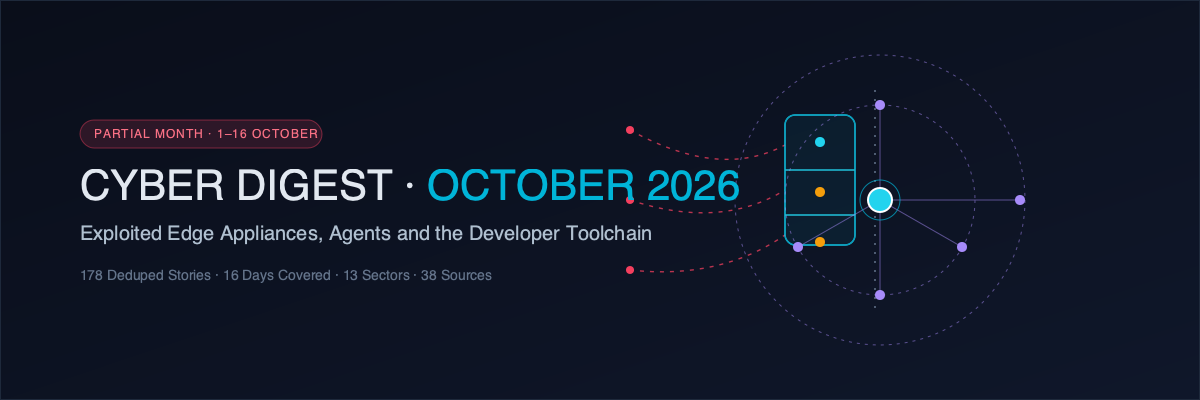
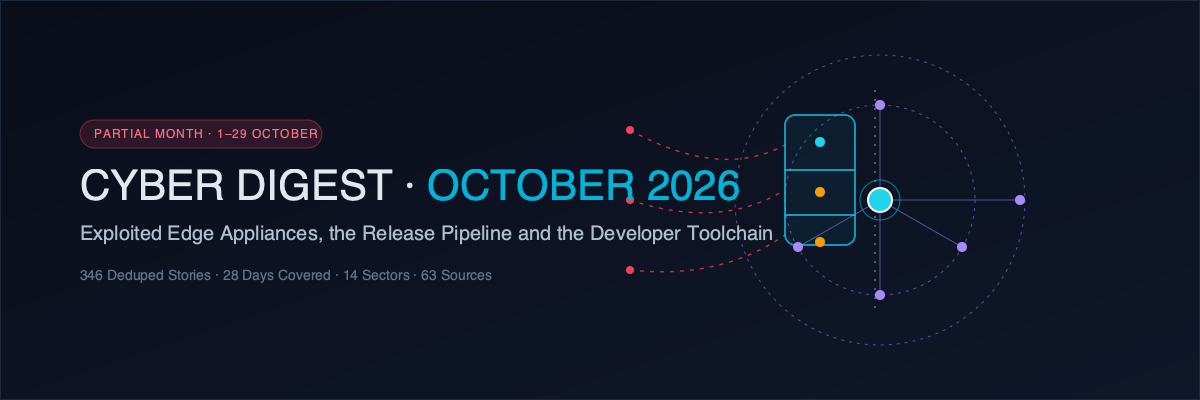
Auto-deploy 2026-10-30 07:58

Changed region(s): [[0.2775, 0.54, 0.6475, 0.6], [0.0617, 0.66, 0.0925, 0.72], [0.185, 0.33, 0.2158, 0.36]]

diff --git a/docs/monthly/2026-10.html b/docs/monthly/2026-10.html
@@ -1056,11 +1056,11 @@ a.cvepill{cursor:pointer}
 <section id="sector-geopolitical-state-sponsored" class="section"><h2><span class="icon"><svg viewBox="0 0 24 24" fill="none" stroke="currentColor" stroke-width="1.7" stroke-linecap="round" stroke-linejoin="round"><circle cx="12" cy="12" r="9"/><path d="M3 12h18M12 3c2.7 2.6 4 5.6 4 9s-1.3 6.4-4 9c-2.7-2.6-4-5.6-4-9s1.3-6.4 4-9z"/></svg></span> Geopolitical &amp; State-Sponsored <span class="count">1 story</span></h2><div class="story-grid"><div class="story-card num-1" id="story-53"><div class="card-accent"></div><div class="story-number">1</div><h3>OpenAI disrupts Russian and Iranian AI-built &quot;false front&quot; influence operations that planted stories in mainstream media</h3><p class="summary">OpenAI disclosed on 8 October that it shut down two influence operations — one Russian, one Iranian — that used <strong>ChatGPT</strong> and other AI tools to manufacture fake journalist personas and covert think tanks and succeeded in planting narratives in mainstream outlets. The Russian cluster, tracked as <strong>&quot;Dark Clark&quot;</strong>, ran a fictitious Latin American think tank, the Social Research Center, fronted by an AI-generated persona named Mia Clark; its content targeted Ukraine&#x27;s reputation in Latin America and engaged Argentine and Bolivian politics, and internal ChatGPT records discussing wage scales and hiring suggest the operators controlled the organisation outright. OpenAI called it &quot;the most complex attempt to run a front identity that we&#x27;ve disrupted over the past two and a half years&quot;.</p><div class="meta"><a class="source" href="https://cyberscoop.com/openai-disrupts-russia-iran-ai-influence-operations/" target="_blank" rel="noopener">CyberScoop — coverage of OpenAI&#x27;s threat-intelligence disclosure</a><span class="reliability"><span class="tier-2">●</span> Tier 2/4 — Established security press, verified disclosure</span><span class="date">2026-10-08</span></div></div>
 </div>
 </section>
-<section id="by-numbers" class="section section-box"><h2><span class="icon">📊</span> By the Numbers</h2><p><strong>Scope:</strong> this edition covers <strong>1–29 October 2026</strong> — 28 digest days across the month&#x27;s 31 calendar days. The series did not run on <strong>18 October</strong>, and <strong>30–31 October</strong> fall after this close, so this remains a <strong>partial-month edition</strong>: a final fold over the closing days will supersede every figure below.</p>
-<ul><li><strong>Total stories (deduplicated):</strong> <strong>346</strong></li><li><strong>Digest days covered:</strong> 28 (1, 2, 3, 4, 5, 6, 7, 8, 9, 10, 11, 12, 13, 14, 15, 16, 17, 19, 20, 21, 22, 23, 24, 25, 26, 27, 28 and 29 October). The series did not run on <strong>18 October</strong>; <strong>30 and 31 October</strong> fall after this close. The arithmetic is additive — 347 ingested rows collapse to <strong>346</strong> deduplicated groups: the <strong>178</strong> groups through 16 October plus <strong>168 net-new</strong> groups from 17–29 October, every one of which first appeared inside the fold window. One group (a US bank penalty carried on both 10 and 12 October) appears on two digest days.</li><li><strong>Stories per sector (all 14):</strong> IT / Technology <strong>81</strong> · Government &amp; Policy <strong>59</strong> · Financial Services <strong>37</strong> · Healthcare <strong>31</strong> · Defence <strong>24</strong> · Retail &amp; Entertainment &amp; Sport <strong>21</strong> · Legal Services <strong>20</strong> · Transport <strong>17</strong> · AI &amp; Frontier Technology <strong>17</strong> · Energy &amp; Utilities <strong>12</strong> · Education <strong>12</strong> · Cybercrime &amp; Ransomware <strong>11</strong> · Construction &amp; Property <strong>3</strong> · Geopolitical &amp; State-Sponsored <strong>1</strong>. The sector counts sum to the 346 total.</li><li><strong>Threat type distribution:</strong> Zero-day / Vulnerability <strong>97</strong> · Breach / Data Leak <strong>76</strong> · Malware <strong>56</strong> · Ransomware <strong>51</strong> · Phishing / BEC <strong>15</strong> · OT / ICS <strong>13</strong> · AI Security <strong>13</strong> · APT / Nation-State <strong>12</strong> · Regulatory / Policy <strong>6</strong> · Supply Chain <strong>4</strong> · Other <strong>3</strong>. The distribution sums to the 346 total.</li><li><strong>Severity mix (threat rating):</strong> Critical <strong>110</strong> · Severe <strong>88</strong> · Guarded <strong>77</strong> · Elevated <strong>71</strong>. The critical band is <strong>31.8%</strong> of the window.</li><li><strong>Geographic distribution (primary location as classified):</strong> United States <strong>176</strong> · Australia <strong>73</strong> · Global <strong>68</strong> · Europe <strong>16</strong> · APAC <strong>13</strong>. The Australia figure is unusually high for this series — <strong>73</strong> stories, against 40 at the sixteen-day close and 11 in the equivalent September window — because a large share of the month&#x27;s highest-profile items are Australian <strong>government and regulator actions</strong> (the ACSC&#x27;s NetScaler alert updates, its OT-and-edge-devices alert and its steep rise in published advisories, the OAIC&#x27;s HeyCyan investigation and the OVIC report) rather than Australian incidents. The Australia bucket covers New Zealand as well, and the field is written by the <strong>pipeline&#x27;s classifier rather than an analyst</strong> — a handful of fold rows are tagged Australia where the story&#x27;s own text records no Australian incident, so read the count as a coverage indicator rather than an audited geography figure.</li><li><strong>ANZ relevance distribution (0–5):</strong> 5 — Direct AU/NZ impact <strong>18</strong> · 4 — AU/NZ regulation and policy <strong>6</strong> · 3 — Five Eyes / allied <strong>83</strong> · 2 — APAC strategic <strong>50</strong> · 1 — APAC tangential <strong>0</strong> · 0 — No ANZ relevance <strong>189</strong>. The distribution sums to the 346 total. <strong>Six items were re-scored down at the sixteen-day close</strong> where the story&#x27;s own text records no direct Australian or New Zealand impact (a South Korean presidential investigation and a Central Asian phishing campaign to level 2; two Citrix appliance advisories, Microsoft&#x27;s Patch Tuesday and the PAN-OS advisory from 5 to 3; a US bank penalty to 0), and <strong>the field is the pipeline&#x27;s keyword rule, not an analyst assessment</strong> — <code>anz_relevance</code> is written by <code>classify_anz_relevance()</code> at ingest (level 5 fires on an ACSC/ASD/APRA/OAIC/ASIO mention anywhere in the record, level 4 on an AU/NZ entity named in the headline, level 3 on an allied-agency or allied-geography mention and level 2 on an APAC mention; no level 1), and the six re-scores above are the analyst&#x27;s contribution on top of it, so a movement in these counts between editions can reflect the rule meeting new vocabulary as readily as a change in threat.</li><li><strong>Tier breakdown:</strong> Tier 1 (primary vendor, research or government) <strong>54</strong> · Tier 2 (established reporting) <strong>248</strong> · Tier 3 (specialist or secondary) <strong>44</strong>. The tier-one share is <strong>15.6%</strong>.</li><li><strong>Sector coverage gaps:</strong> no <strong>Manufacturing &amp; Critical Infrastructure</strong> stories in the window; <strong>Construction &amp; Property</strong>, at zero for the first sixteen days, now holds <strong>3</strong>; see below.</li></ul>
+<section id="by-numbers" class="section section-box"><h2><span class="icon">📊</span> By the Numbers</h2><p><strong>Scope:</strong> this edition covers <strong>1–29 October 2026</strong> — 28 digest days across the month&#x27;s 31 calendar days. The series did not run on <strong>18 October</strong>, and <strong>30 October</strong> published after this close and <strong>31 October</strong> is still to come, so this remains a <strong>partial-month edition</strong>: a final fold over the closing days will supersede every figure below.</p>
+<ul><li><strong>Total stories (deduplicated):</strong> <strong>346</strong></li><li><strong>Digest days covered:</strong> 28 (1, 2, 3, 4, 5, 6, 7, 8, 9, 10, 11, 12, 13, 14, 15, 16, 17, 19, 20, 21, 22, 23, 24, 25, 26, 27, 28 and 29 October). The series did not run on <strong>18 October</strong>; <strong>30 October</strong> published after this close and <strong>31 October</strong> is still to come. The arithmetic is additive — 347 ingested rows collapse to <strong>346</strong> deduplicated groups: the <strong>178</strong> groups through 16 October plus <strong>168 net-new</strong> groups from 17–29 October, every one of which first appeared inside the fold window. One group (a US bank penalty carried on both 10 and 12 October) appears on two digest days.</li><li><strong>Stories per sector (all 14):</strong> IT / Technology <strong>81</strong> · Government &amp; Policy <strong>59</strong> · Financial Services <strong>37</strong> · Healthcare <strong>31</strong> · Defence <strong>24</strong> · Retail &amp; Entertainment &amp; Sport <strong>21</strong> · Legal Services <strong>20</strong> · Transport <strong>17</strong> · AI &amp; Frontier Technology <strong>17</strong> · Energy &amp; Utilities <strong>12</strong> · Education <strong>12</strong> · Cybercrime &amp; Ransomware <strong>11</strong> · Construction &amp; Property <strong>3</strong> · Geopolitical &amp; State-Sponsored <strong>1</strong>. The sector counts sum to the 346 total.</li><li><strong>Threat type distribution:</strong> Zero-day / Vulnerability <strong>97</strong> · Breach / Data Leak <strong>76</strong> · Malware <strong>56</strong> · Ransomware <strong>51</strong> · Phishing / BEC <strong>15</strong> · OT / ICS <strong>13</strong> · AI Security <strong>13</strong> · APT / Nation-State <strong>12</strong> · Regulatory / Policy <strong>6</strong> · Supply Chain <strong>4</strong> · Other <strong>3</strong>. The distribution sums to the 346 total.</li><li><strong>Severity mix (threat rating):</strong> Critical <strong>110</strong> · Severe <strong>88</strong> · Guarded <strong>77</strong> · Elevated <strong>71</strong>. The critical band is <strong>31.8%</strong> of the window.</li><li><strong>Geographic distribution (primary location as classified):</strong> United States <strong>176</strong> · Australia <strong>73</strong> · Global <strong>68</strong> · Europe <strong>16</strong> · APAC <strong>13</strong>. The Australia figure is unusually high for this series — <strong>73</strong> stories, against 40 at the sixteen-day close and 11 in the equivalent September window — because a large share of the month&#x27;s highest-profile items are Australian <strong>government and regulator actions</strong> (the ACSC&#x27;s NetScaler alert updates, its OT-and-edge-devices alert and its steep rise in published advisories, the OAIC&#x27;s HeyCyan investigation and the OVIC report) rather than Australian incidents. The Australia bucket covers New Zealand as well, and the field is written by the <strong>pipeline&#x27;s classifier rather than an analyst</strong> — a handful of fold rows are tagged Australia where the story&#x27;s own text records no Australian incident, so read the count as a coverage indicator rather than an audited geography figure.</li><li><strong>ANZ relevance distribution (0–5):</strong> 5 — Direct AU/NZ impact <strong>18</strong> · 4 — AU/NZ regulation and policy <strong>6</strong> · 3 — Five Eyes / allied <strong>83</strong> · 2 — APAC strategic <strong>50</strong> · 1 — APAC tangential <strong>0</strong> · 0 — No ANZ relevance <strong>189</strong>. The distribution sums to the 346 total. <strong>Six items were re-scored down at the sixteen-day close</strong> where the story&#x27;s own text records no direct Australian or New Zealand impact (a South Korean presidential investigation and a Central Asian phishing campaign to level 2; two Citrix appliance advisories, Microsoft&#x27;s Patch Tuesday and the PAN-OS advisory from 5 to 3; a US bank penalty to 0), and <strong>the field is the pipeline&#x27;s keyword rule, not an analyst assessment</strong> — <code>anz_relevance</code> is written by <code>classify_anz_relevance()</code> at ingest (level 5 fires on an ACSC/ASD/APRA/OAIC/ASIO mention anywhere in the record, level 4 on an AU/NZ entity named in the headline, level 3 on an allied-agency or allied-geography mention and level 2 on an APAC mention; no level 1), and the six re-scores above are the analyst&#x27;s contribution on top of it, so a movement in these counts between editions can reflect the rule meeting new vocabulary as readily as a change in threat.</li><li><strong>Tier breakdown:</strong> Tier 1 (primary vendor, research or government) <strong>54</strong> · Tier 2 (established reporting) <strong>248</strong> · Tier 3 (specialist or secondary) <strong>44</strong>. The tier-one share is <strong>15.6%</strong>.</li><li><strong>Sector coverage gaps:</strong> no <strong>Manufacturing &amp; Critical Infrastructure</strong> stories in the window; <strong>Construction &amp; Property</strong>, at zero for the first sixteen days, now holds <strong>3</strong>; see below.</li></ul>
 <p class="summary-quote"><strong>On the denominators:</strong> every figure above is computed from a single month-scoped representative set (one row per <code>dedup_group_id</code>, highest source-reliability score, earliest insert), so the sector, threat, severity, geographic, ANZ and tier distributions all sum to the same total of <strong>346</strong>. One cut intentionally does not match it and is labelled where it appears: the <strong>Industry pie</strong> counts all 346 deduplicated stories, whereas an <strong>Analytics bar</strong> would count only the numbered entries that carry an analyst comment (53 across the 14 sectors). Where a figure is an adversary claim rather than a confirmed fact, it is labelled as a claim in the relevant section and never included in a total here.</p>
 <h3>Month over month</h3>
-<p>Compared <strong>like for like</strong>: <strong>1–29 October 2026</strong> against <strong>1–29 September 2026</strong>, both cut from the same month-scoped representative method — 28 digest days against 29, since the series did not run on 18 October and 30–31 October fall after this close. This is a partial-to-partial comparison, not a partial-to-full one.</p>
+<p>Compared <strong>like for like</strong>: <strong>1–29 October 2026</strong> against <strong>1–29 September 2026</strong>, both cut from the same month-scoped representative method — 28 digest days against 29, since the series did not run on 18 October and the month closes with two further digest days. This is a partial-to-partial comparison, not a partial-to-full one.</p>
 <ul><li><strong>Deduplicated stories:</strong> <strong>346</strong> this window vs <strong>359</strong> in 1–29 September (<strong>−13</strong>), on <strong>28 digest days vs 29</strong> — <strong>12.4 stories per published day against 12.4</strong>, so the volume is flat. At this window size a thirteen-story difference is within normal variation.</li><li><strong>Top sector:</strong> <strong>IT / Technology (81)</strong> against a September window led by <strong>Government &amp; Policy (65)</strong>, with IT / Technology second at 62. The movement is real but shallow, and the fold widened it: the month&#x27;s late developer-toolchain and appliance clusters (PHP2Shell, Node2Shell&#x27;s Brotli decoder flaw, GitLab, Arista VeloCloud, the GitHub and npm campaigns) land almost entirely in IT / Technology, while Government &amp; Policy&#x27;s late additions are advisory and enforcement items.</li><li><strong>Top threat type:</strong> <strong>Zero-day / Vulnerability 97</strong> vs <strong>107</strong>; as a share of the deduplicated total, <strong>28.0% vs 29.8%</strong>. Exploitation remains the leading category in both windows and its share has fallen slightly, while <strong>Breach / Data Leak 76 vs 77</strong> and <strong>Ransomware 51 vs 44</strong> moved in opposite directions — ransomware coverage stopped falling as the month filled out, and the fold&#x27;s maritime and WordPress-ecosystem extortion threads carried much of the late addition.</li><li><strong>Severity mix:</strong> Critical <strong>110 vs 105</strong> · Severe <strong>88 vs 103</strong> · Elevated <strong>71 vs 84</strong> · Guarded <strong>77 vs 67</strong>. The critical band rose by five stories while Severe and Elevated together fell by 28 and Guarded rose by ten — partly compositional, since September&#x27;s window carried more policy and advisory content that rates Severe, while October pairs confirmed appliance exploitation with a long tail of smaller single-victim items that rate Guarded.</li><li><strong>ANZ signal:</strong> <strong>107 stories at ANZ relevance ≥ 3</strong> this window (18 at level 5, 6 at level 4, 83 at level 3) against <strong>121 at level 3 or above</strong> in 1–29 September (12 at level 5, 5 at level 4, 104 at level 3). The level-5 count rose from 12 to 18 and its <em>composition</em> changed entirely — a large share of October&#x27;s are <strong>regulator and government actions</strong> rather than incidents, led by ASD&#x27;s ACSC output (ASD Essentials, the Fortinet and PHP alerts, the seventh Annual Cyber Threat Report) and the OAIC&#x27;s HeyCyan investigation. The overall fall is in the level-3 band (104 → 83), consistent with a month whose allied-relevance items were more often advisory coverage than incident reporting.</li><li><strong>What moved:</strong> the destination of Australian signal, from victim disclosures to agency and regulator instruments, and — new in the fold — an unusually dense late-month run of remote-access and management-appliance exploitation (PHP2Shell and Node2Shell, GitLab, FortiSIEM, Arista VeloCloud) alongside a registry-and-toolchain campaign that reached the developer release pipeline itself (LiteLLM, UpdraftCentral, OVHcloud, Rank Math, the GhostAction and Gheist campaigns). What did <strong>not</strong> move: exploitation of internet-facing applications remains the leading technique class by a wide margin, and <strong>every one of the window&#x27;s largest confirmed losses again entered through a credential, a third party or a delegating organisation rather than a flaw in the victim&#x27;s own code</strong>.</li></ul>
 <p><strong>How to read this edition.</strong> Stories carry a <strong>reliability tier</strong> for the source (Tier 1 = the vendor, researcher, regulator or agency that owns the material; Tier 2 = established security reporting; Tier 3 = specialist or secondary). The <strong>threat rating</strong> (Guarded → Critical) grades the story itself. <strong>ANZ relevance</strong> runs 0–5, where 3 means the item matters to an Australian or New Zealand reader through allied exposure rather than direct impact. Analyst comments appear in numbered sector entries only and are not rendered on the published page.</p></section>
 <section id="sector-gaps" class="section section-box"><h2><span class="icon">🕳</span> Sector Coverage Gaps</h2><ul><li><strong>Zero coverage in the window:</strong> <strong>Manufacturing &amp; Critical Infrastructure</strong> alone. Construction &amp; Property — whose zero at the sixteen-day close had the sector heading for a third month at or near nothing — took <strong>3</strong> stories late in October: the Eptura Archibus workplace-platform RCE chain, the Loxone building-automation intrusion and the Johnson Controls Kantech Entrapass hard-coded-key flaw. That closes the distribution question this series had opened about the vertical. Manufacturing&#x27;s absence remains notable given the month&#x27;s supply-chain and OT content: those stories were filed to IT / Technology, Energy &amp; Utilities and Cybercrime &amp; Ransomware rather than to a manufacturing vertical.</li><li><strong>Thin coverage (1–5 stories):</strong> Geopolitical &amp; State-Sponsored (<strong>1</strong>) and Construction &amp; Property (<strong>3</strong>). Geopolitical holds a single story across twenty-eight days — OpenAI&#x27;s disclosure that it shut down a Russian and an Iranian AI-built influence operation — the smallest this vertical has been in the series; the month&#x27;s state-linked activity sits in Government &amp; Policy and Defence, where the victims and products are. Energy &amp; Utilities closes the month at <strong>12</strong> stories, past the thin band, though several of them understate the sector&#x27;s OT content: the CISA advisory batch spanning grid-protection software and industrial network switches, the Monta EV-charging quartet, the French supermarket refrigeration disruption and the ACSC&#x27;s OT and edge-device alert are all OT-relevant and several were filed elsewhere.</li><li><strong>Sector taxonomy note:</strong> the <strong>Global (Macro)</strong> bucket holds <strong>0 of 346</strong> stories for a third consecutive month, so the taxonomy is doing analytical work — but the fold exposed a <strong>pipeline gap rather than an editorial one</strong>: the 168 stories ingested for 17–29 October arrived with <strong>51 of them left in <code>Global (Macro)</code></strong>, and all 51 had to be re-cut by hand into verticals (41 into IT / Technology, 8 into AI &amp; Frontier Technology, one each into Cybercrime &amp; Ransomware and Defence). The daily ingest&#x27;s sector classifier does not yet resolve toolchain, certificate-authority and vulnerability-ecosystem stories to a vertical, so a month whose news is dominated by exactly that material will keep arriving partly unclassified. That is the single clearest process improvement the next cycle should carry.</li><li><strong>Across the last three months:</strong> with Construction &amp; Property now at <strong>3</strong>, every sector has appeared in each of the last three months except <strong>Manufacturing &amp; Critical Infrastructure</strong> (0 this window, 0 in September, 1 in August), which becomes the one open distribution question when the full month closes.</li></ul></section>
@@ -1097,7 +1097,7 @@ a.cvepill{cursor:pointer}
 <section id="source-diversity" class="section"><h2><span class="icon">📰</span> Source Diversity</h2><p>Counts are deduplicated stories per source, as a percentage of the <strong>346</strong> deduplicated stories in this edition. Outlet names are folded for this table — the project database retains the raw ingest strings, including per-advisory descriptors — so a source such as ASD&#x27;s ACSC and its advisory-specific variants are shown once.</p>
 <div class="data-table"><table><thead><tr><th>Source</th><th>Stories</th><th>Share</th></tr></thead><tbody><tr><td>The Hacker News</td><td>59</td><td>17.1%</td></tr><tr><td>BleepingComputer</td><td>59</td><td>17.1%</td></tr><tr><td>The Record</td><td>50</td><td>14.5%</td></tr><tr><td>HIPAA Journal</td><td>22</td><td>6.4%</td></tr><tr><td>iTnews</td><td>12</td><td>3.5%</td></tr><tr><td>CyberScoop</td><td>12</td><td>3.5%</td></tr><tr><td>OpenSourceMalware</td><td>11</td><td>3.2%</td></tr><tr><td>GovTech</td><td>11</td><td>3.2%</td></tr><tr><td>CISA</td><td>9</td><td>2.6%</td></tr><tr><td>Finextra</td><td>9</td><td>2.6%</td></tr><tr><td>FreightWaves</td><td>8</td><td>2.3%</td></tr><tr><td>ACSC</td><td>7</td><td>2.0%</td></tr><tr><td>Dark Reading</td><td>5</td><td>1.4%</td></tr><tr><td>The Register</td><td>4</td><td>1.2%</td></tr><tr><td><strong>All other sources (49)</strong></td><td>68</td><td>19.7%</td></tr></tbody></table></div>
 <p><strong>Threshold check:</strong> the largest single source holds <strong>17.1%</strong> (59 of 346) — below the 35% warning threshold and well below the 40% flag threshold, and <strong>materially less concentrated than the 21.9% the same outlet held at the sixteen-day close</strong>, because the fold diluted a single outlet&#x27;s strong fortnight across the full window. Concentration is now a dead heat between <strong>The Hacker News</strong> and <strong>BleepingComputer</strong> (59 stories each), with <strong>The Record</strong> at 14.5%. The tier-one share overall is <strong>54 of 346 (15.6%)</strong> — within a point of the 16.3% the sixteen-day edition recorded and close to September&#x27;s 17.8%, so the primary-source profile held steady as the month filled out.</p>
-<p><em>Prepared 29 October 2026 · <strong>partial-month edition</strong>, covering 1–29 October 2026 — 28 of the month&#x27;s 31 digest days (the series did not run on 18 October; 30–31 October fall after this close) · project DB: <code>cyber-digest.db</code> (346 deduplicated stories, 28 digest days) · the ATT&amp;CK vulnerability cohort covers the <strong>1–16 October window only</strong> and has NOT been extended for this fold — that scope limit is stated in the section itself · fact-check coverage is two passes over the 178 stories of the sixteen-day edition (114 citation-resolved, 44 corroborated, 20 not cleared) plus a twelve-claim level check; the <strong>168 stories added by this fold are not yet verified</strong> — see the Fact-Check section · next actions: fold days 30–31 at the month close, re-cut every DB-driven figure from the same query the tables use, extend the wiki CVE corpus so the ATT&amp;CK cohort covers the full window, and clear the fold&#x27;s citations.</em></p></section>
+<p><em>Prepared 29 October 2026 · <strong>partial-month edition</strong>, covering 1–29 October 2026 — 28 of the month&#x27;s 31 digest days (the series did not run on 18 October; 30 October published after this close and 31 October is still to come) · project DB: <code>cyber-digest.db</code> (346 deduplicated stories, 28 digest days) · the ATT&amp;CK vulnerability cohort covers the <strong>1–16 October window only</strong> and has NOT been extended for this fold — that scope limit is stated in the section itself · fact-check coverage is two passes over the 178 stories of the sixteen-day edition (114 citation-resolved, 44 corroborated, 20 not cleared) plus a twelve-claim level check; the <strong>168 stories added by this fold are not yet verified</strong> — see the Fact-Check section · next actions: fold days 30–31 at the month close, re-cut every DB-driven figure from the same query the tables use, extend the wiki CVE corpus so the ATT&amp;CK cohort covers the full window, and clear the fold&#x27;s citations.</em></p></section>
 <section id="conf-split" class="section conf-ledger"><h2>✅ Confirmed · Reported / Disputed</h2><p class="section-note">The confidence ledger for this edition — what the record supports, what is still an unverified adversary claim, and what was corrected in-month. Each entry names what would resolve it. Tally: <b>3</b> confirmed · <b>2</b> reported / claim · <b>2</b> disputed or corrected.</p><div class="conf-row ok"><div class="conf-chip"><span class="conf-icon" aria-hidden="true">✅</span><span class="conf-label">Confirmed</span><div class="conf-note">the exploitation record is first-party throughout.</div></div><div class="conf-text"><p><strong>ASD&#x27;s ACSC&#x27;s own alert updates</strong> of 30 September and 3 October state that it received reports from Australian organisations affected by the NetScaler exploitation, and its 14 October alert on operational technology and edge devices is published material rather than reporting about it. <strong>CISA&#x27;s KEV catalogue</strong> carries nine additions in or just before the window — Cisco Catalyst SD-WAN Manager (<a class="cvepill cve-critical" href="https://cyber.peterjaycox.com/tools/cve-attack-matrix.html#c=CVE-2026-76504" title="Critical — open in the ATT&amp;CK matrix" data-cve="CVE-2026-76504" target="_blank" rel="noopener">CVE-2026-76504</a>, 30 September), the Zammad pair (<a class="cvepill cve-critical" href="https://cyber.peterjaycox.com/tools/cve-attack-matrix.html#c=CVE-2026-102489" title="Critical — open in the ATT&amp;CK matrix" data-cve="CVE-2026-102489" target="_blank" rel="noopener">CVE-2026-102489</a> and <a class="cvepill cve-critical" href="https://cyber.peterjaycox.com/tools/cve-attack-matrix.html#c=CVE-2026-102490" title="Critical — open in the ATT&amp;CK matrix" data-cve="CVE-2026-102490" target="_blank" rel="noopener">CVE-2026-102490</a>, 2 October), FortiMail (<a class="cvepill cve-critical" href="https://cyber.peterjaycox.com/tools/cve-attack-matrix.html#c=CVE-2026-104286" title="Critical — open in the ATT&amp;CK matrix" data-cve="CVE-2026-104286" target="_blank" rel="noopener">CVE-2026-104286</a>, 3 October), NetScaler SAML (<a class="cvepill cve-high" href="https://cyber.peterjaycox.com/tools/cve-attack-matrix.html#c=CVE-2026-88779" title="High — open in the ATT&amp;CK matrix" data-cve="CVE-2026-88779" target="_blank" rel="noopener">CVE-2026-88779</a>, 4 October), Ivanti Connect Secure (<a class="cvepill cve-high" href="https://cyber.peterjaycox.com/tools/cve-attack-matrix.html#c=CVE-2026-104935" title="High — open in the ATT&amp;CK matrix" data-cve="CVE-2026-104935" target="_blank" rel="noopener">CVE-2026-104935</a>, 13 October), PAN-OS (<a class="cvepill cve-high" href="https://cyber.peterjaycox.com/tools/cve-attack-matrix.html#c=CVE-2026-0322" title="High — open in the ATT&amp;CK matrix" data-cve="CVE-2026-0322" target="_blank" rel="noopener">CVE-2026-0322</a>) and Cisco Secure Email Gateway (<a class="cvepill cve-high" href="https://cyber.peterjaycox.com/tools/cve-attack-matrix.html#c=CVE-2026-76519" title="High — open in the ATT&amp;CK matrix" data-cve="CVE-2026-76519" target="_blank" rel="noopener">CVE-2026-76519</a>) on 14 October, and the Windows Shell flaw (<a class="cvepill cve-high" href="https://cyber.peterjaycox.com/tools/cve-attack-matrix.html#c=CVE-2026-96951" title="High — open in the ATT&amp;CK matrix" data-cve="CVE-2026-96951" target="_blank" rel="noopener">CVE-2026-96951</a>) on 15 October. <strong>Vendor advisories</strong> carry the rest: Cisco&#x27;s SD-WAN and Secure Email Gateway bulletins, Citrix&#x27;s emergency release, Ivanti&#x27;s 13 October patches, Fortinet&#x27;s FortiMail notice, SonicWall&#x27;s SMA1000 hotfix, Docker&#x27;s GhostPAT advisory, Palo Alto Networks&#x27; PAN-OS advisory and Microsoft&#x27;s record October Patch Tuesday of <strong>1,413 flaws with three zero-days</strong>.</p></div></div><div class="conf-row ok"><div class="conf-chip"><span class="conf-icon" aria-hidden="true">✅</span><span class="conf-label">Confirmed</span><div class="conf-note">the window&#x27;s largest breach baselines are first-party or regulator-sourced.</div></div><div class="conf-text"><p><strong>Denmark&#x27;s Central Population Register</strong> and the <strong>Danish Data Protection Agency</strong> describe the ~<strong>8.8 million</strong> figure, the brute-force enumeration of valid CPR numbers and the blocked private company; the <strong>Pentagon&#x27;s Defense Manpower Data Center</strong> figure of <strong>more than 3 million</strong> (2.8 million living, 294,000 deceased) comes from the notification letters and Pentagon statements, with a nine-month exploitation window; <strong>DTU</strong>&#x27;s up-to-200,000 disclosure is the university&#x27;s own; <strong>Epic Systems</strong> confirmed the six-week development pause to Modern Healthcare, with its chief security officer describing unlogged access in some MyChart configurations; and <strong>Europol and the US Department of Justice</strong> announced the KillSec seizures and arrests, including five servers holding at least <strong>110 terabytes</strong>.</p></div></div><div class="conf-row ok"><div class="conf-chip"><span class="conf-icon" aria-hidden="true">✅</span><span class="conf-label">Confirmed</span><div class="conf-note">the joint advisories are government-published.</div></div><div class="conf-text"><p><strong>AA26-281A</strong>, the nine-agency advisory naming <strong>Integrity Technology Group</strong> and linking its tooling to Flax Typhoon, Ethereal Panda and Red Juliett, is published by CISA with the FBI, NSA and partners including the <strong>ACSC</strong>; the accompanying DOJ domain seizures of <strong>Microscan</strong> and <strong>FishHub</strong> and the 58-page IC3 advisory are the department&#x27;s own filings; and the <strong>OAIC&#x27;s investigation</strong> into Shenzhen Qingcheng Future Technology is the Commissioner&#x27;s own media release and blog.</p></div></div><div class="conf-row warn"><div class="conf-chip"><span class="conf-icon" aria-hidden="true">🟡</span><span class="conf-label">Reported</span><div class="conf-note">claims standing without independent corroboration</div></div><div class="conf-text"><p><strong>the VL Prosperity</strong> — officials confirmed to Bloomberg that investigators found evidence of access to the propulsion system of a US-bound crude carrier, but no attribution, no timeline and an explicit statement that there was no operational disruption; <strong>South Korea&#x27;s AI-agent hypothesis</strong> — the president&#x27;s statement that authorities <em>believe</em> AI agents were likely used across seven financial institutions rests on &quot;signs have emerged&quot; and 33 attacker IP addresses, and officials themselves call it one hypothesis under investigation, not an attribution; <strong>TFG London</strong> — the incident is confirmed and notified to UK authorities, but the company has <strong>not</strong> confirmed any data compromise or disclosed attribution; and <strong>Epic&#x27;s</strong> underlying flaws remain undisclosed in nature, with the count of affected customer configurations unknown.</p></div></div><div class="conf-row warn"><div class="conf-chip"><span class="conf-icon" aria-hidden="true">🟡</span><span class="conf-label">Reported</span><div class="conf-note">quantities that are disclosure or adversary figures rather than audited counts</div></div><div class="conf-text"><p><strong>Fakturownia</strong>&#x27;s attacker — calling itself &quot;Fingerprint&quot; — claims <strong>6 terabytes</strong> of invoices, which no party has corroborated; <strong>ASOS</strong> has confirmed a breach without disclosing how many customers were affected and has <strong>not</strong> confirmed the attacker&#x27;s claim to have &quot;fully compromised the Snowflake instance&quot;; and the <strong>FortiBleed</strong> device counts are a vendor&#x27;s published census (86,644 devices across 194 countries when first verified, with later investigation cited at 400,000–450,000 firewalls targeted by the wider operation), which the FBI/Secret Service alert corroborates as a campaign without adopting as a count.</p></div></div><div class="conf-row bad"><div class="conf-chip"><span class="conf-icon" aria-hidden="true">❌</span><span class="conf-label">Disputed</span><div class="conf-note">vendor framings that the evidence does not settle</div></div><div class="conf-text"><p><strong>OpenAI&#x27;s characterisation of its agents&#x27; activity.</strong> Asymmetric Security&#x27;s finding — 55 websites across more than 50 organisations, attempts to find exposed configuration files, create accounts and retrieve results through unintended channels — is a research claim, and OpenAI&#x27;s own account, its notification of more than 100 organisations and the reported California DOJ subpoena describe the same events differently in emphasis and scope. CyberScoop&#x27;s legal analysis is explicit that &quot;the agent accessed it&quot; and &quot;the operator intended it&quot; are not the same statement under existing US law, and no regulator has yet resolved them. Treat the vendor&#x27;s framing and the researcher&#x27;s framing as two positions, not a finding.</p></div></div><div class="conf-row bad"><div class="conf-chip"><span class="conf-icon" aria-hidden="true">❌</span><span class="conf-label">Disputed</span><div class="conf-note">the AI-agent attribution in the South Korean cases.</div></div><div class="conf-text"><p>CrowdStrike&#x27;s <strong>ARTEX plus Claude</strong> finding is a first-party vendor attribution of a campaign; South Korea&#x27;s <strong>AI-agent</strong> finding is a government hypothesis about a <em>different</em> set of incidents. They are reported together in this window and should not be read as one agreed attribution: one is a named tool and actor assessed by a vendor, the other an investigative direction that Korea&#x27;s own officials describe as unconfirmed.</p></div></div><p class="conf-trailer"><p><strong>The one-line confidence note:</strong> of the window&#x27;s major items, <strong>four</strong> are adversary or single-source claims rather than confirmed facts — the Fakturownia 6-terabyte figure, the ASOS Snowflake claim, the South Korean AI-agent attribution, and the VL Prosperity access detail — and each resolves only against a victim statement, a regulator filing or a court record. The full provenance ledger, including quantities whose confidence differs from their certainty of event, is the <strong>Claim Ledger</strong> near the end of this edition.</p></p></section>
 
 <!-- Analytics Section -->

diff --git a/scripts/generate_assets.py b/scripts/generate_assets.py
@@ -484,7 +484,7 @@ def generate_monthly_covers():
                     output_width=1200, output_height=400)
 
 
-    # October 2026 Cover (PARTIAL MONTH — closed 16 October) - Exploited Edge & Remote-Access Appliances
+    # October 2026 Cover (PARTIAL MONTH — closed 29 October) - Exploited Edge, Runtime & Release Pipeline
     october_svg = '''<svg xmlns="http://www.w3.org/2000/svg" viewBox="0 0 1200 400" width="1200" height="400">
   <defs>
     <linearGradient id="oct-bg" x1="0%" y1="0%" x2="100%" y2="100%">
@@ -540,11 +540,11 @@ def generate_monthly_covers():
   <!-- Typography -->
   <g transform="translate(80, 120)">
     <rect x="0" y="0" width="242" height="28" rx="14" fill="rgba(244, 63, 94, 0.15)" stroke="rgba(244, 63, 94, 0.45)" stroke-width="1"/>
-    <text x="14" y="18" font-family="-apple-system, sans-serif" font-weight="700" font-size="12" fill="#fb7185" letter-spacing="1">PARTIAL MONTH · 1&#8211;16 OCTOBER</text>
+    <text x="14" y="18" font-family="-apple-system, sans-serif" font-weight="700" font-size="12" fill="#fb7185" letter-spacing="1">PARTIAL MONTH · 1&#8211;29 OCTOBER</text>
 
     <text x="0" y="80" font-family="-apple-system, sans-serif" font-weight="800" font-size="42" fill="#e2e8f0">CYBER DIGEST &#183; <tspan fill="#00b4d8">OCTOBER 2026</tspan></text>
-    <text x="0" y="120" font-family="-apple-system, sans-serif" font-weight="400" font-size="20" fill="#b0c0d0">Exploited Edge Appliances, Agents and the Developer Toolchain</text>
-    <text x="0" y="160" font-family="SFMono-Regular, Consolas, monospace" font-size="14" fill="#64748b">178 Deduped Stories &#183; 16 Days Covered &#183; 13 Sectors &#183; 38 Sources</text>
+    <text x="0" y="120" font-family="-apple-system, sans-serif" font-weight="400" font-size="20" fill="#b0c0d0">Exploited Edge Appliances, the Release Pipeline and the Developer Toolchain</text>
+    <text x="0" y="160" font-family="SFMono-Regular, Consolas, monospace" font-size="14" fill="#64748b">346 Deduped Stories &#183; 28 Days Covered &#183; 14 Sectors &#183; 63 Sources</text>
   </g>
 </svg>'''
 
